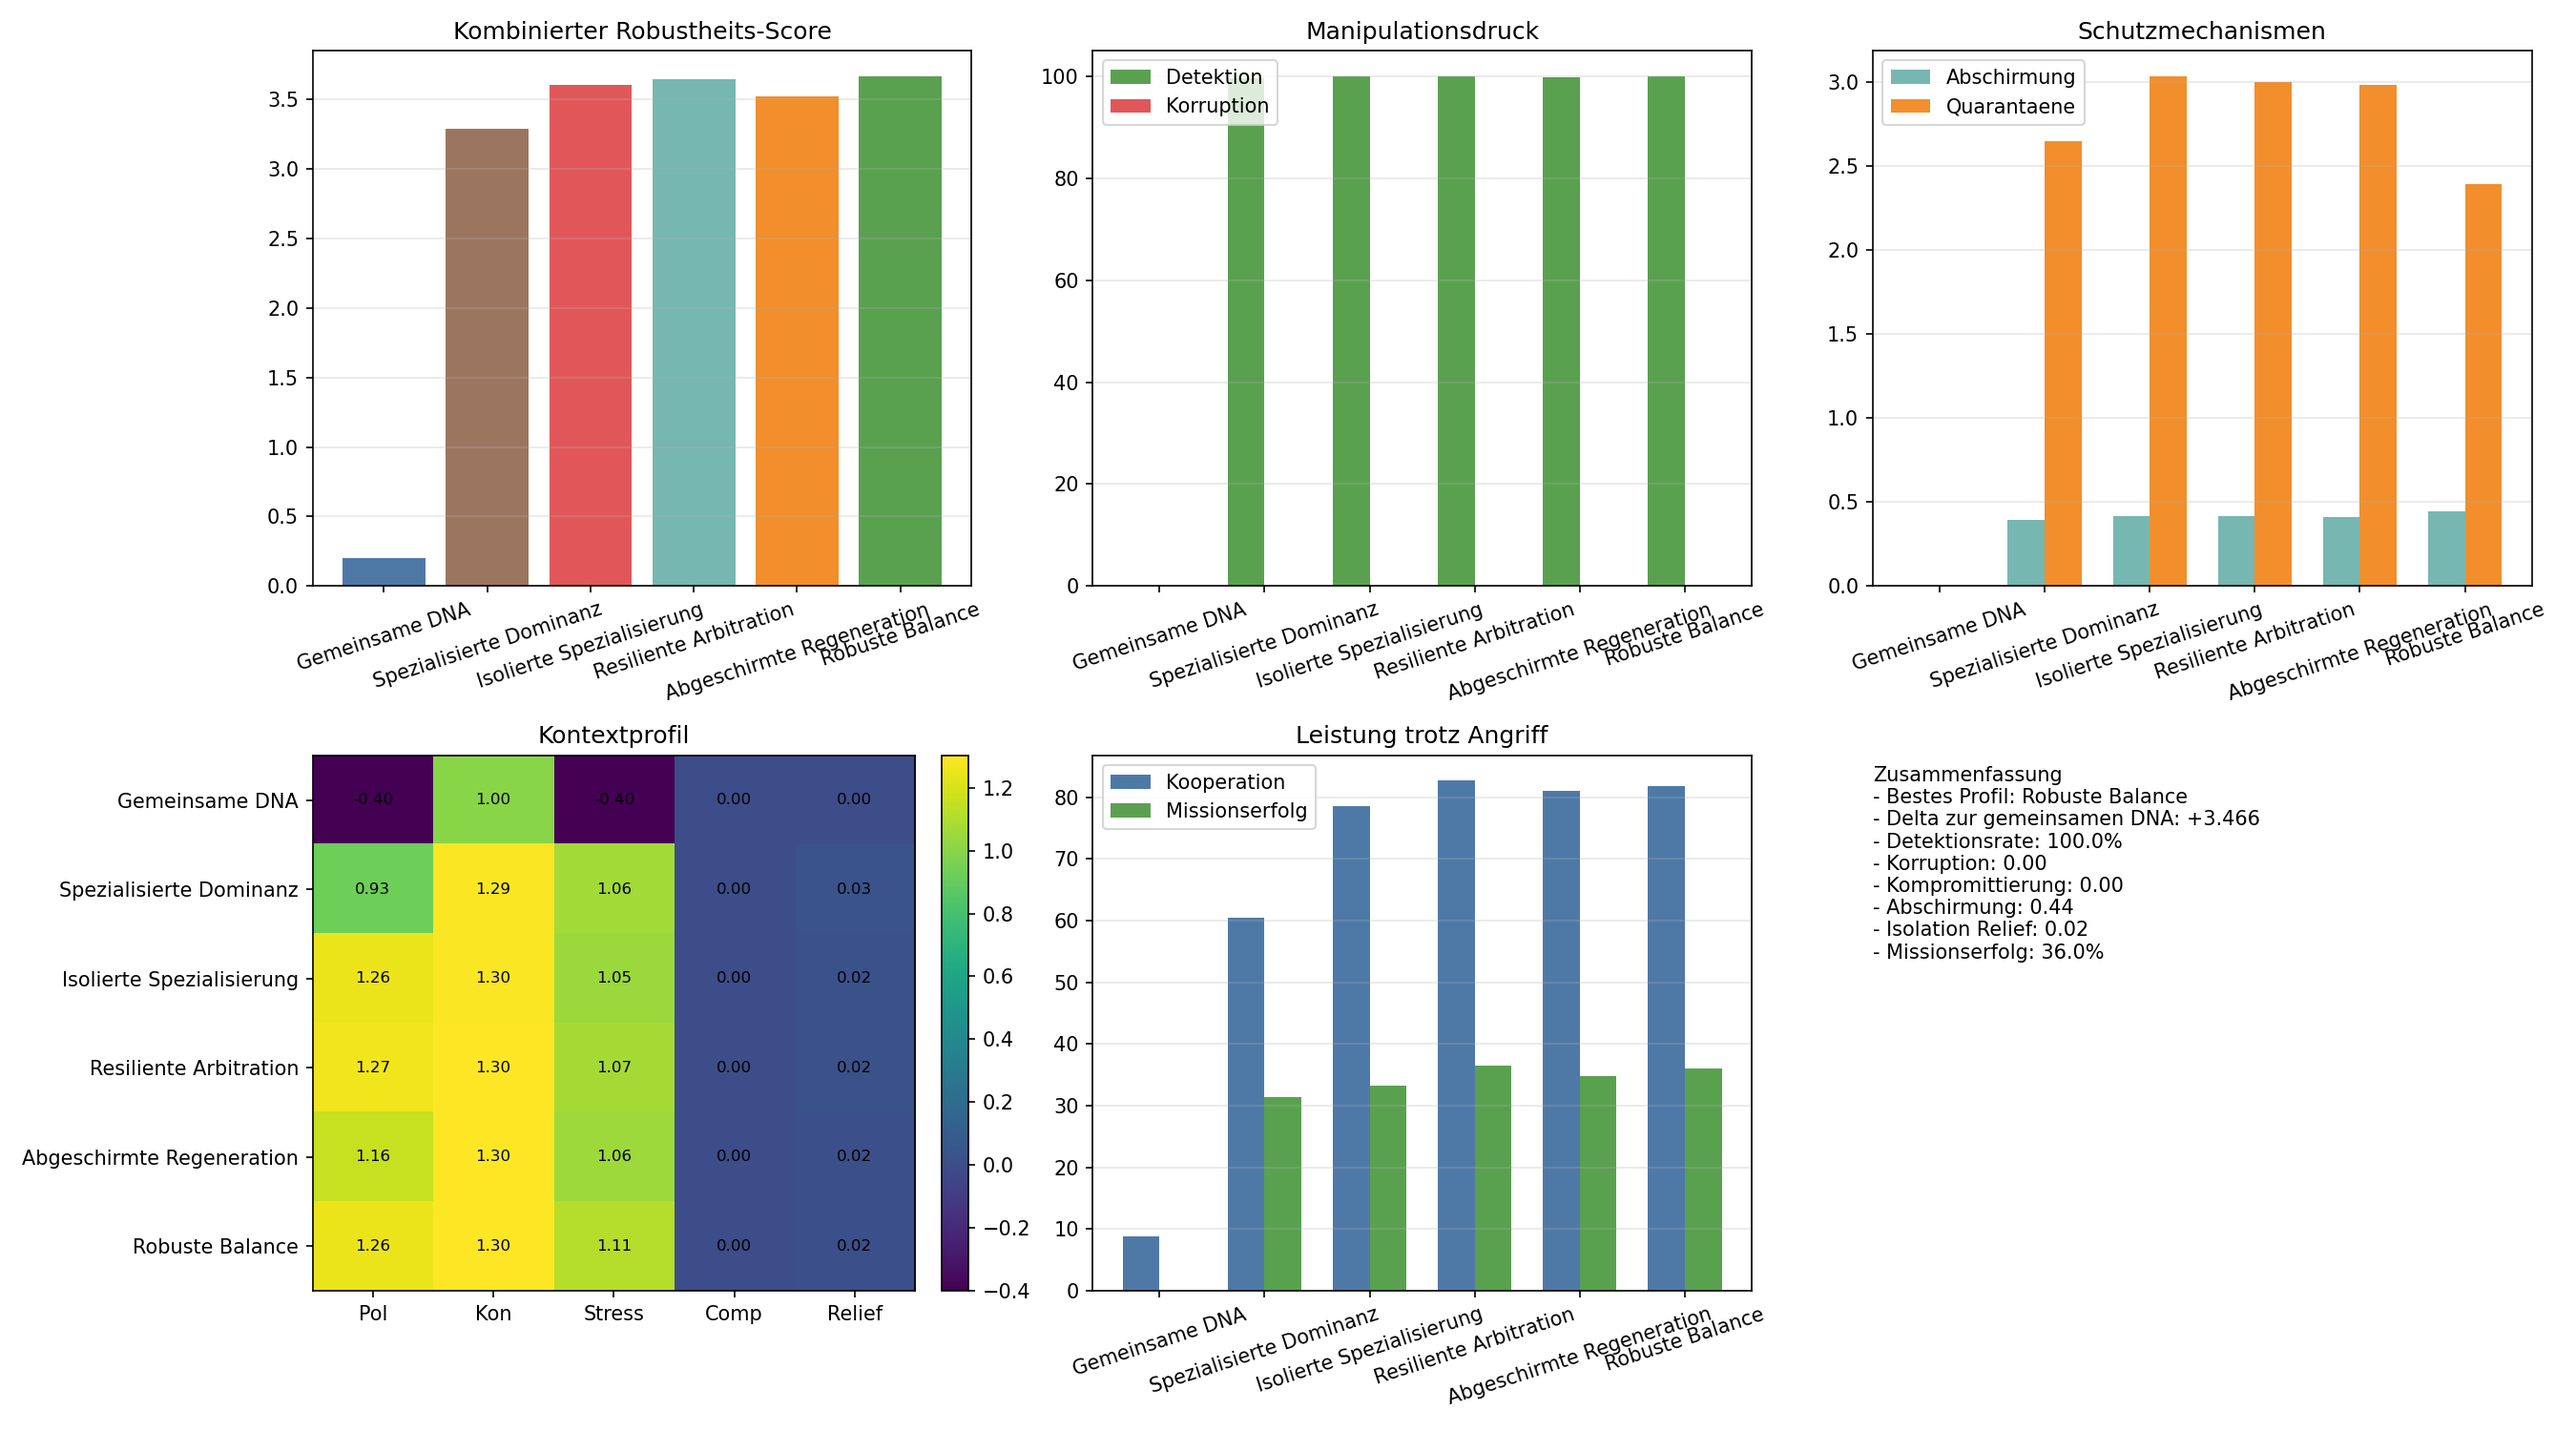
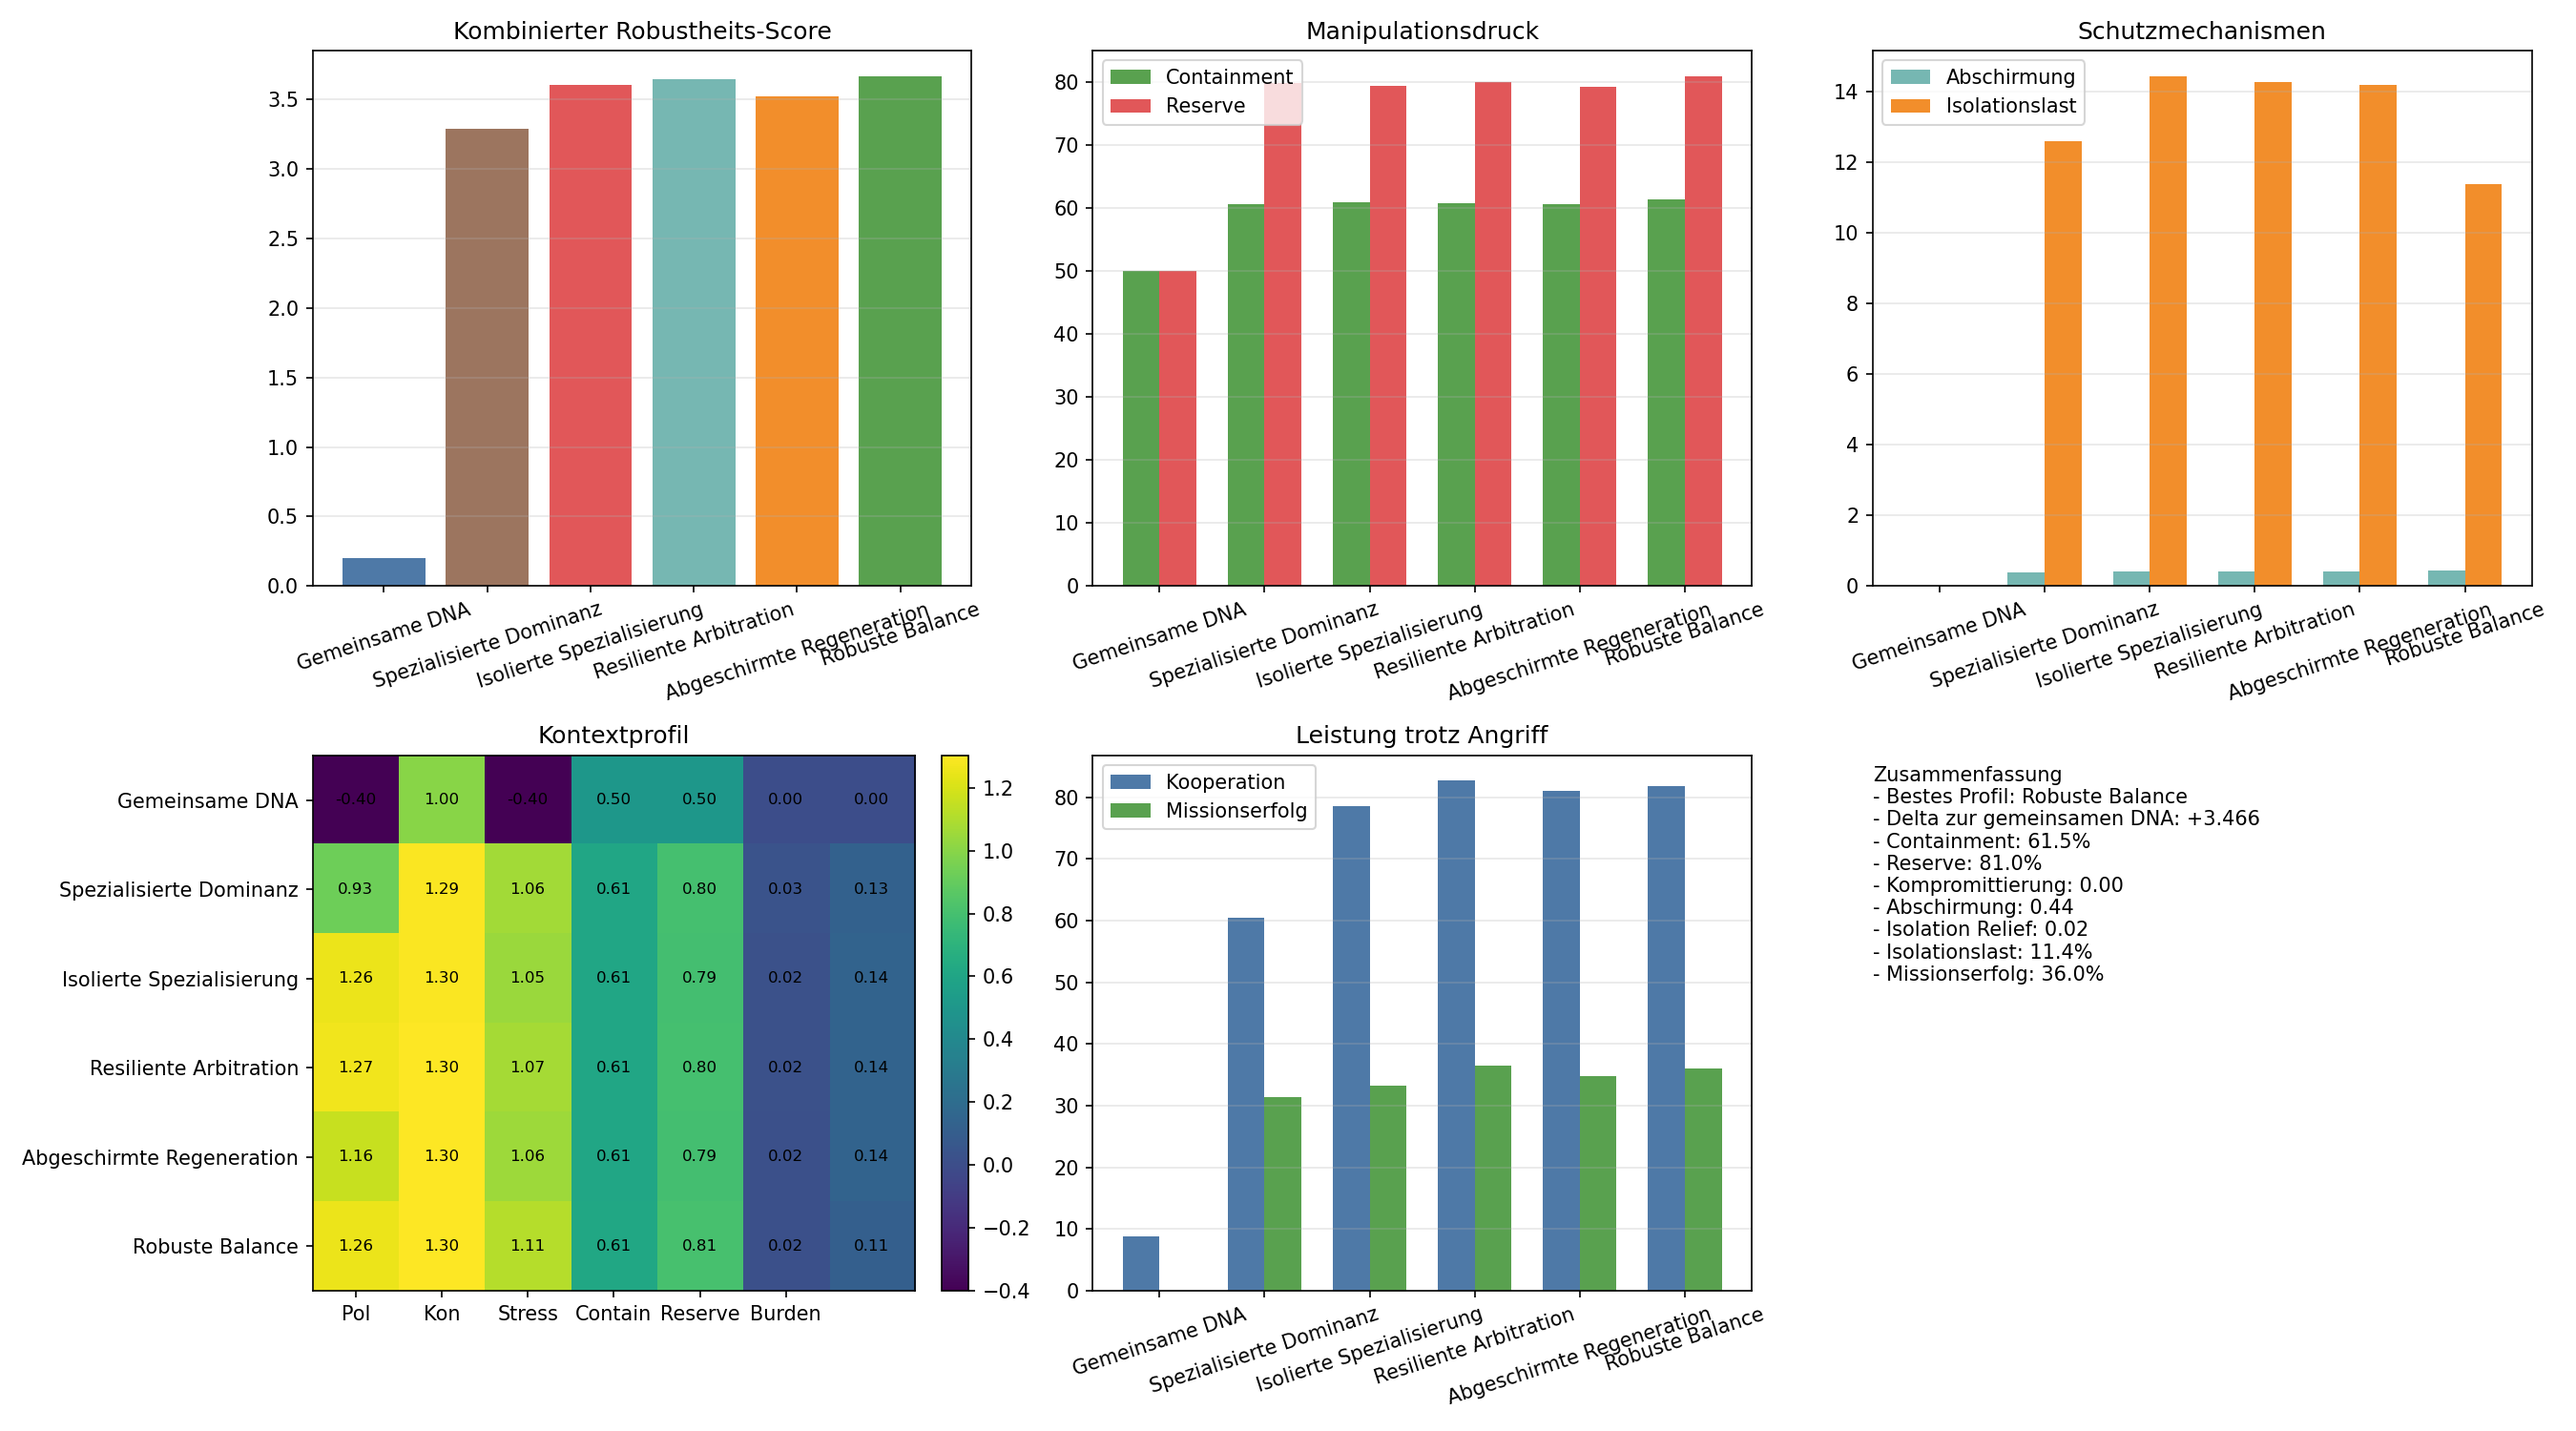
Refine group robustness metrics

diff --git a/schwarm_gruppenrobustheit.py b/schwarm_gruppenrobustheit.py
@@ -187,8 +187,32 @@ def robustness_profiles(katalog):
     ]
 
 
-def robustness_metrics(result):
+def robustness_metrics(result, params):
     workflow = result['workflow_metrics']
+    cluster_compromise_mean = workflow.get('cluster_compromise_mean', 0.0)
+    quarantined_agents_mean = workflow.get('quarantined_agents_mean', 0.0)
+    trust_shield_mean = workflow.get('trust_shield_mean', 0.0)
+    isolation_relief_rate = workflow.get('isolation_relief_rate', 0.0)
+    corruption_mean = workflow.get('misinformation_corruption_mean', 0.0)
+    stress_integrity = max(0.0, 1.0 - corruption_mean)
+    isolation_burden = min(1.0, quarantined_agents_mean / max(1.0, params['agent_count'] * 0.35))
+    mission_success = mittelwert(list(result.get('mission_success_rates', {}).values()))
+    compromise_reserve = mittelwert(
+        [
+            max(0.0, 1.0 - cluster_compromise_mean),
+            min(1.0, workflow.get('resource_efficiency', 0.0)),
+            min(1.0, mission_success),
+            max(0.0, 1.0 - isolation_burden),
+        ]
+    )
+    containment_quality = mittelwert(
+        [
+            max(0.0, 1.0 - cluster_compromise_mean),
+            stress_integrity,
+            trust_shield_mean,
+            isolation_relief_rate,
+        ]
+    )
     return {
         'completion_rate': workflow.get('completion_rate', 0.0),
         'resource_efficiency': workflow.get('resource_efficiency', 0.0),
@@ -196,12 +220,16 @@ def robustness_metrics(result):
         'bottleneck_relief_rate': workflow.get('bottleneck_relief_rate', 0.0),
         'skill_alignment_rate': workflow.get('skill_alignment_rate', 0.0),
         'detection_rate': workflow.get('misinformation_detection_rate', 0.0),
-        'corruption_mean': workflow.get('misinformation_corruption_mean', 0.0),
-        'cluster_compromise_mean': workflow.get('cluster_compromise_mean', 0.0),
-        'quarantined_agents_mean': workflow.get('quarantined_agents_mean', 0.0),
-        'trust_shield_mean': workflow.get('trust_shield_mean', 0.0),
-        'isolation_relief_rate': workflow.get('isolation_relief_rate', 0.0),
-        'mission_success': mittelwert(list(result.get('mission_success_rates', {}).values())),
+        'corruption_mean': corruption_mean,
+        'stress_integrity': stress_integrity,
+        'cluster_compromise_mean': cluster_compromise_mean,
+        'compromise_reserve': compromise_reserve,
+        'quarantined_agents_mean': quarantined_agents_mean,
+        'isolation_burden': isolation_burden,
+        'trust_shield_mean': trust_shield_mean,
+        'isolation_relief_rate': isolation_relief_rate,
+        'containment_quality': containment_quality,
+        'mission_success': mission_success,
         'cross_group_cooperation': result['cross_group_cooperation_rate'],
         'consensus': result['final_consensus_score'],
         'polarization': result['final_polarization_index'],
@@ -228,7 +256,7 @@ def run_context(seed, params, eintrag, kontext):
         config['enable_prompt_injection'] = False
 
     result = run_polarization_experiment(config, make_plot=False, print_summary=False)
-    result['robustness_metrics'] = robustness_metrics(result)
+    result['robustness_metrics'] = robustness_metrics(result, params)
     return result
 
 
@@ -274,10 +302,14 @@ def summarize_runs(runs, eintrag, context_list):
         'skill_alignment_rate': {},
         'detection_rate': {},
         'corruption_mean': {},
+        'stress_integrity': {},
         'cluster_compromise_mean': {},
+        'compromise_reserve': {},
         'quarantined_agents_mean': {},
+        'isolation_burden': {},
         'trust_shield_mean': {},
         'isolation_relief_rate': {},
+        'containment_quality': {},
         'mission_success': {},
         'cross_group_cooperation': {},
     }
@@ -332,9 +364,9 @@ def main():
         summaries.append(summary)
         print(
             f"{summary['label']:<26} Score={summary['combined_score']:+.3f} | "
-            f"Det={summary['detection_rate']['stress']:.1%} | "
-            f"Corr={summary['corruption_mean']['stress']:.2f} | "
-            f"Shield={summary['trust_shield_mean']['stress']:.2f}"
+            f"Containment={summary['containment_quality']['stress']:.1%} | "
+            f"Reserve={summary['compromise_reserve']['stress']:.1%} | "
+            f"Isolationslast={summary['isolation_burden']['stress']:.1%}"
         )
 
     best = max(summaries, key=lambda item: item['combined_score'])
@@ -345,9 +377,9 @@ def main():
         f"Delta zur gemeinsamen DNA {best['combined_score'] - baseline['combined_score']:+.3f}"
     )
     print(
-        f"Detektionsrate {best['detection_rate']['stress']:.1%}, "
-        f"Korruption {best['corruption_mean']['stress']:.2f}, "
-        f"Abschirmung {best['trust_shield_mean']['stress']:.2f}"
+        f"Containment {best['containment_quality']['stress']:.1%}, "
+        f"Reserve {best['compromise_reserve']['stress']:.1%}, "
+        f"Isolationslast {best['isolation_burden']['stress']:.1%}"
     )
 
     labels = [item['label'] for item in summaries]
@@ -365,16 +397,16 @@ def main():
 
     axes[0, 1].bar(
         x - width / 2,
-        [item['detection_rate']['stress'] * 100.0 for item in summaries],
+        [item['containment_quality']['stress'] * 100.0 for item in summaries],
         width,
-        label='Detektion',
+        label='Containment',
         color='#59a14f',
     )
     axes[0, 1].bar(
         x + width / 2,
-        [item['corruption_mean']['stress'] for item in summaries],
+        [item['compromise_reserve']['stress'] * 100.0 for item in summaries],
         width,
-        label='Korruption',
+        label='Reserve',
         color='#e15759',
     )
     axes[0, 1].set_title('Manipulationsdruck')
@@ -392,9 +424,9 @@ def main():
     )
     axes[0, 2].bar(
         x + width / 2,
-        [item['quarantined_agents_mean']['stress'] for item in summaries],
+        [item['isolation_burden']['stress'] * 100.0 for item in summaries],
         width,
-        label='Quarantaene',
+        label='Isolationslast',
         color='#f28e2b',
     )
     axes[0, 2].set_title('Schutzmechanismen')
@@ -409,8 +441,10 @@ def main():
                 item['context_scores']['polarization'],
                 item['context_scores']['consensus'],
                 item['context_scores']['stress'],
-                item['cluster_compromise_mean']['stress'],
+                item['containment_quality']['stress'],
+                item['compromise_reserve']['stress'],
                 item['isolation_relief_rate']['stress'],
+                item['isolation_burden']['stress'],
             ]
             for item in summaries
         ],
@@ -418,8 +452,8 @@ def main():
     )
     heatmap = axes[1, 0].imshow(heatmap_data, cmap='viridis', aspect='auto')
     axes[1, 0].set_title('Kontextprofil')
-    axes[1, 0].set_xticks([0, 1, 2, 3, 4])
-    axes[1, 0].set_xticklabels(['Pol', 'Kon', 'Stress', 'Comp', 'Relief'])
+    axes[1, 0].set_xticks([0, 1, 2, 3, 4, 5])
+    axes[1, 0].set_xticklabels(['Pol', 'Kon', 'Stress', 'Contain', 'Reserve', 'Burden'])
     axes[1, 0].set_yticks(range(len(labels)))
     axes[1, 0].set_yticklabels(labels)
     for row in range(heatmap_data.shape[0]):
@@ -455,11 +489,12 @@ def main():
             "Zusammenfassung\n"
             f"- Bestes Profil: {best['label']}\n"
             f"- Delta zur gemeinsamen DNA: {best['combined_score'] - baseline['combined_score']:+.3f}\n"
-            f"- Detektionsrate: {best['detection_rate']['stress']:.1%}\n"
-            f"- Korruption: {best['corruption_mean']['stress']:.2f}\n"
+            f"- Containment: {best['containment_quality']['stress']:.1%}\n"
+            f"- Reserve: {best['compromise_reserve']['stress']:.1%}\n"
             f"- Kompromittierung: {best['cluster_compromise_mean']['stress']:.2f}\n"
             f"- Abschirmung: {best['trust_shield_mean']['stress']:.2f}\n"
             f"- Isolation Relief: {best['isolation_relief_rate']['stress']:.2f}\n"
+            f"- Isolationslast: {best['isolation_burden']['stress']:.1%}\n"
             f"- Missionserfolg: {best['mission_success']['polarization']:.1%}"
         ),
         va='top',
